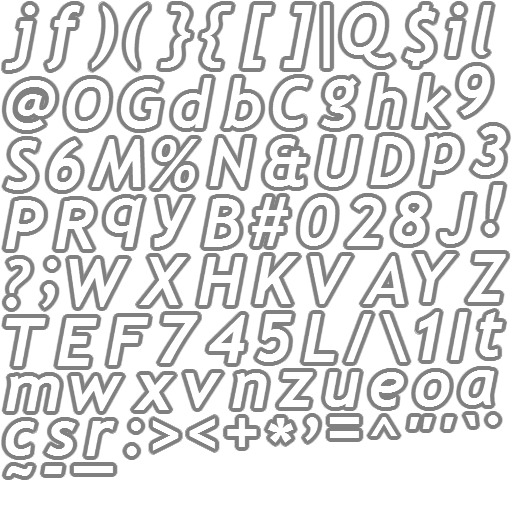
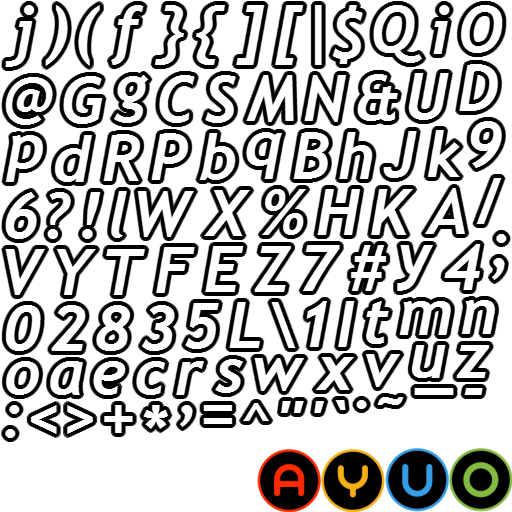
Add OUYA buttons to trebuchet font ("\x01\x02\x03\x04") Add platform.c/h to vs2008 .sln

diff --git a/src/credits.c b/src/credits.c
@@ -66,7 +66,7 @@ static credit_line_t credit_lines[] =
     { "credits_text_small", "modify it under the terms of the" },
     { "credits_text_small", "GNU General Public License" },
     { "credits_text_small", "" },
-    { "credits_text", "Ported from" },
+    { "credits_text", "\x01\x02\x03\x04 Ported from" },
     { "credits_text", "the open source project" },
     { "credits_text", "Tux Racer 4iOS" },
     { "credits_text", "" },
